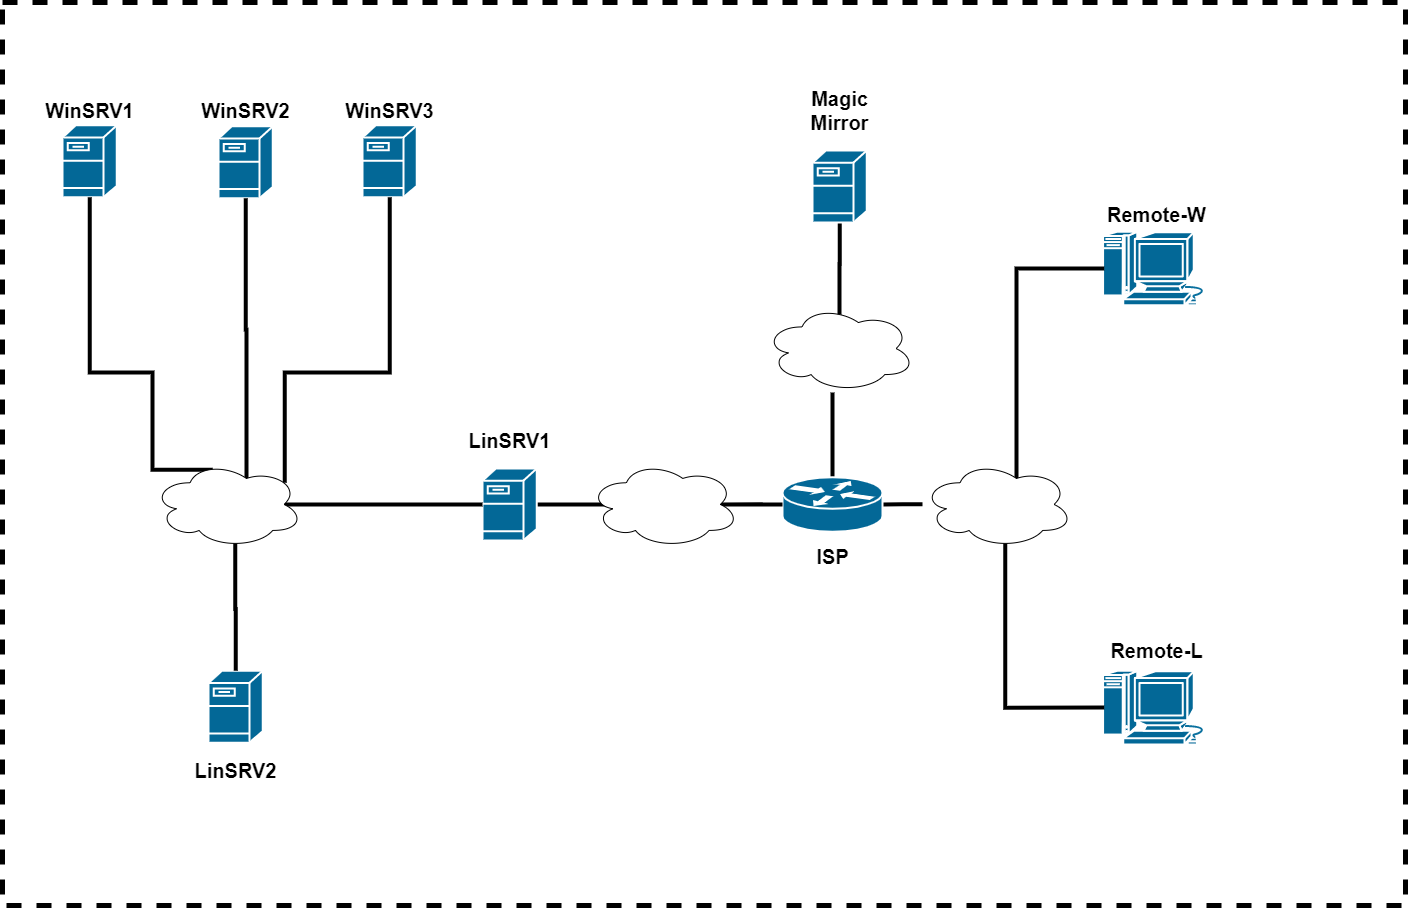
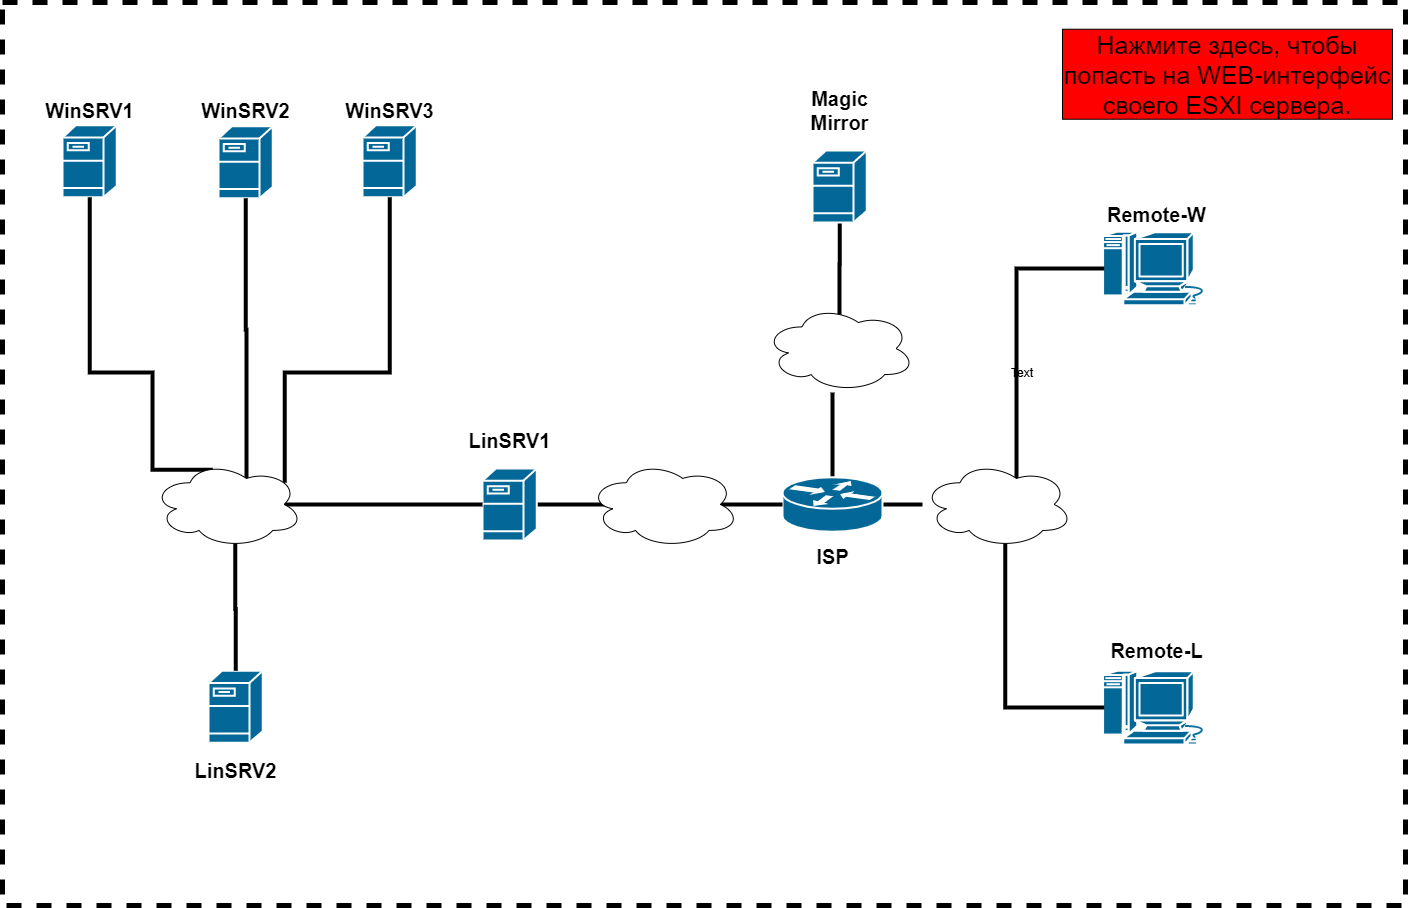
Hot fix demo2020c1.2 :)

Changed region(s): [[0.75, 0.0308, 1.0, 0.1542]]

diff --git a/php-fpm/data/site/css/champs/demo2020c1.2.css b/php-fpm/data/site/css/champs/demo2020c1.2.css
@@ -1,5 +1,13 @@
 
 /* TODO: Devices CSS*/
+.additionals {
+  position: absolute;
+  width: 328px;
+  height: 90px;
+  cursor: pointer;
+  /* background-color: black; */
+}
+
 .device {
   position: absolute;
   width: 100px;
@@ -19,6 +27,10 @@
   TODO: CSS Linux
 */
 
+.ESXi-L {
+  margin-top: 28px;
+  margin-left: 1055px;
+}
 .WinSRV1 {
   margin-top: 120px;
   margin-left: 40px;
@@ -60,6 +72,10 @@
   TODO: CSS Windows
 */
 
+.ESXi-W {
+  margin-top: 28px;
+  margin-left: 1045px;
+}
 .ISP {
   margin-top: 370px;
   margin-left: 840px;
@@ -121,6 +137,10 @@
   TODO: CSS Cisco
 */
 
+.ILO {
+  margin-top: 770px;
+  margin-left: 34px;
+}
 .BR-CLI {
   margin-top: 220px;
   margin-left: 130px;

diff --git a/php-fpm/data/site/scheme/demo2020c1.2/linux.php b/php-fpm/data/site/scheme/demo2020c1.2/linux.php
@@ -86,6 +86,10 @@
    <div class="main-content">
     <div class="main-scheme">
       <img src=" <?php echo $dir_images . '/' . $module . 'scheme.png'; ?>" alt="Scheme" class="main-scheme-image">
+      <!-- Additionals -->
+      <div class="additionals ESXi-L"
+      onclick="callhost('<?php echo $links['ESXi']; ?>');">
+      </div>
       <!-- Hosts -->
       <div class="host WinSRV1"
       onclick="callhost('<?php echo $links['WinSRV1']; ?>');">
@@ -103,7 +107,7 @@
       onclick="callhost('<?php echo $links['LinSRV1']; ?>');">
       </div>
       <div class="host ISPl"
-      onclick="callhost('<?php echo $links['ISP']; ?>');">
+      onclick="callhost('<?php echo $links['ISPl']; ?>');">
       </div>
       <div class="host MagicMirror"
       onclick="callhost('<?php echo $links['MagicMirror']; ?>');">

diff --git a/php-fpm/data/site/scheme/demo2020c1.2/cisco.php b/php-fpm/data/site/scheme/demo2020c1.2/cisco.php
@@ -88,6 +88,10 @@
    <div class="main-content">
     <div class="main-scheme">
       <img src=" <?php echo $dir_images . '/' . $module . 'scheme.png'; ?>" alt="Scheme" class="main-scheme-image">
+      <!-- Additionals -->
+      <div class="additionals ILO"
+      onclick="callhost('<?php echo $links['ILO']; ?>');">
+      </div>
       <!-- Devices -->
       <div class="device BR-OVS"
       onclick="call('<?php echo $links['BR-OVS']; ?>');">

diff --git a/php-fpm/data/site/scheme/demo2020c1.2/windows.php b/php-fpm/data/site/scheme/demo2020c1.2/windows.php
@@ -86,6 +86,10 @@
    <div class="main-content">
     <div class="main-scheme">
       <img src=" <?php echo $dir_images . '/' . $module . 'scheme.png'; ?>" alt="Scheme" class="main-scheme-image">
+      <!-- Additionals -->
+      <div class="additionals ESXi-W"
+      onclick="callhost('<?php echo $links['ESXi']; ?>');">
+      </div>
       <!-- Devices -->
       <div class="device ISP"
       onclick="call('<?php echo $links['ISP']; ?>');">
